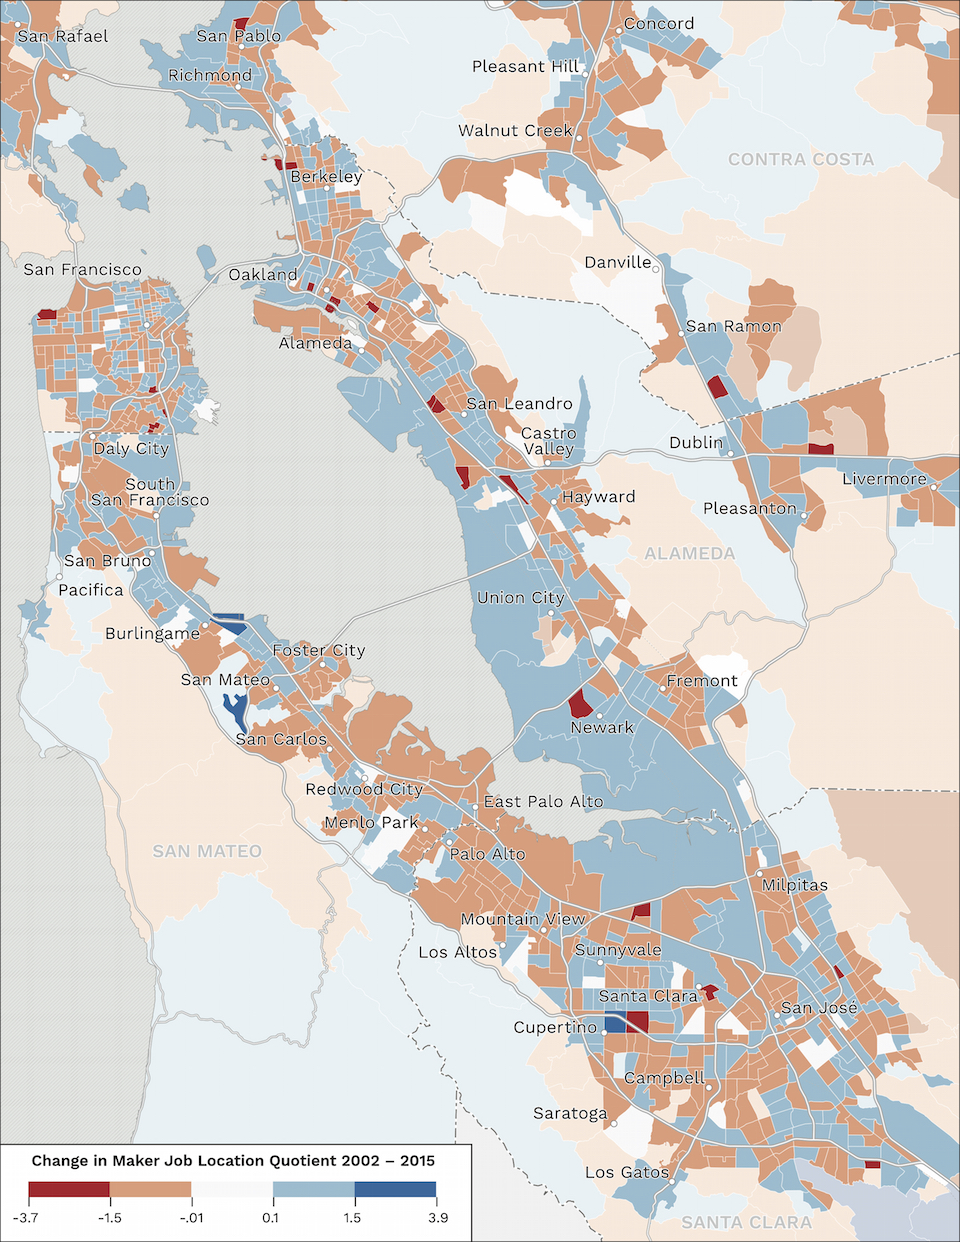
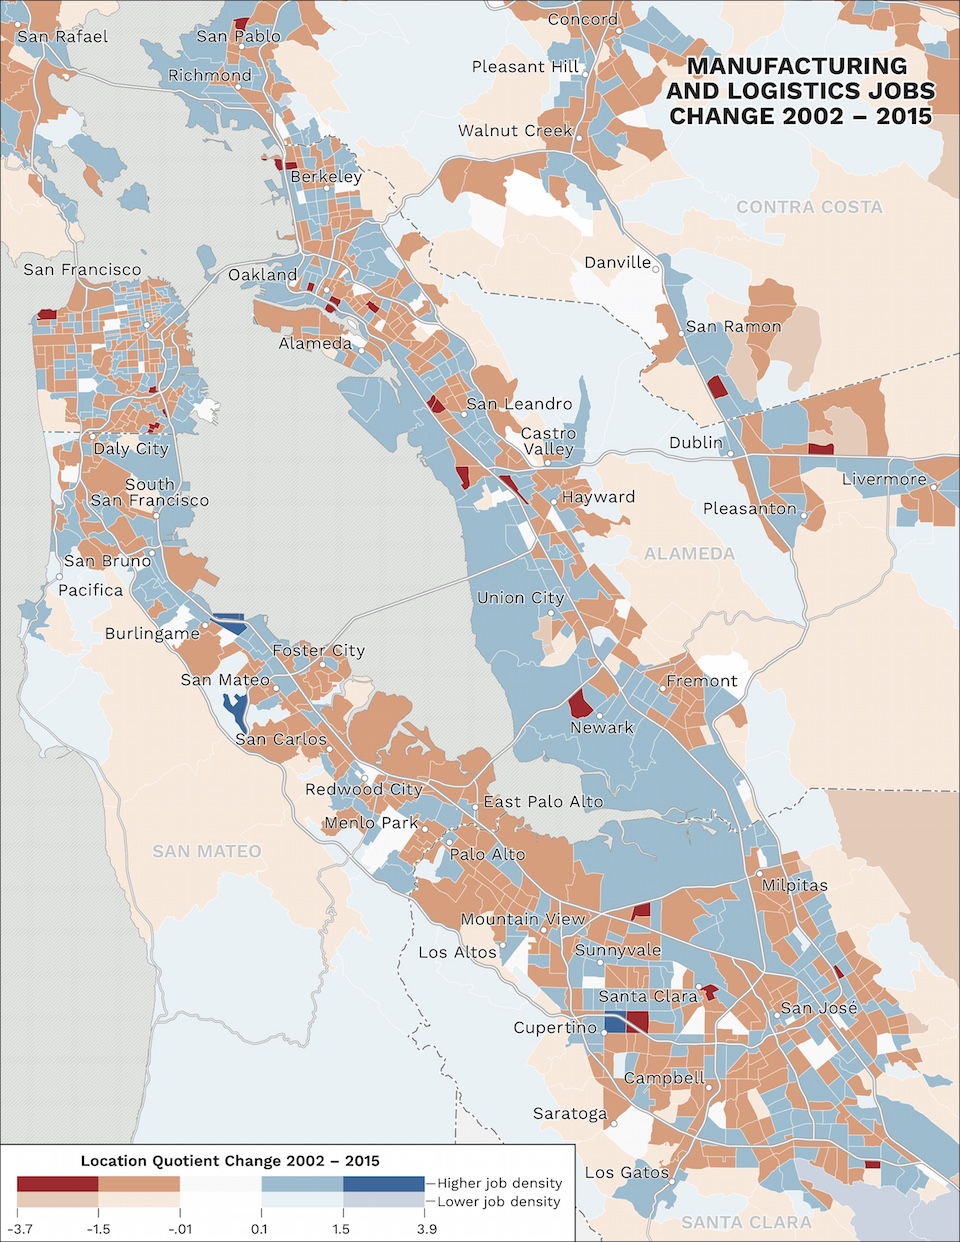
readme updates (#15)
* update img of maker change map

* update readme

diff --git a/README.md b/README.md
@@ -1,10 +1,10 @@
 # SF Bay Area Jobs Viz
-Visualizing the change in job types within the San Francisco Bay Area from 2002 – 2015 through a *Location Quotient* analysis of U.S. Census' [Longitudinal Employer-Household Dynamics – Origin-Destination Employment Statistics – Workplace Area Characteristics data](https://lehd.ces.census.gov/data/).
+Visualizing the change in job types within the San Francisco Bay Area from 2002 – 2015 through a Location Quotient analysis of U.S. Census' [Longitudinal Employer-Household Dynamics – Origin-Destination Employment Statistics – Workplace Area Characteristics data](https://lehd.ces.census.gov/data/).
 
 ![map of maker job change lq 2015 – 2002](img/maker-change.jpg)
+_A sample map showing change in manufacturing and logistics jobs, see `viz/pdf` for all maps and charts_
 
 ## Contents
-
 See the `viz` directory for Adobe Illustrator and PDF files for all maps and charts.
 
 For documentation on the data processing see the Jupyter notebooks in the `notebooks` directory.
